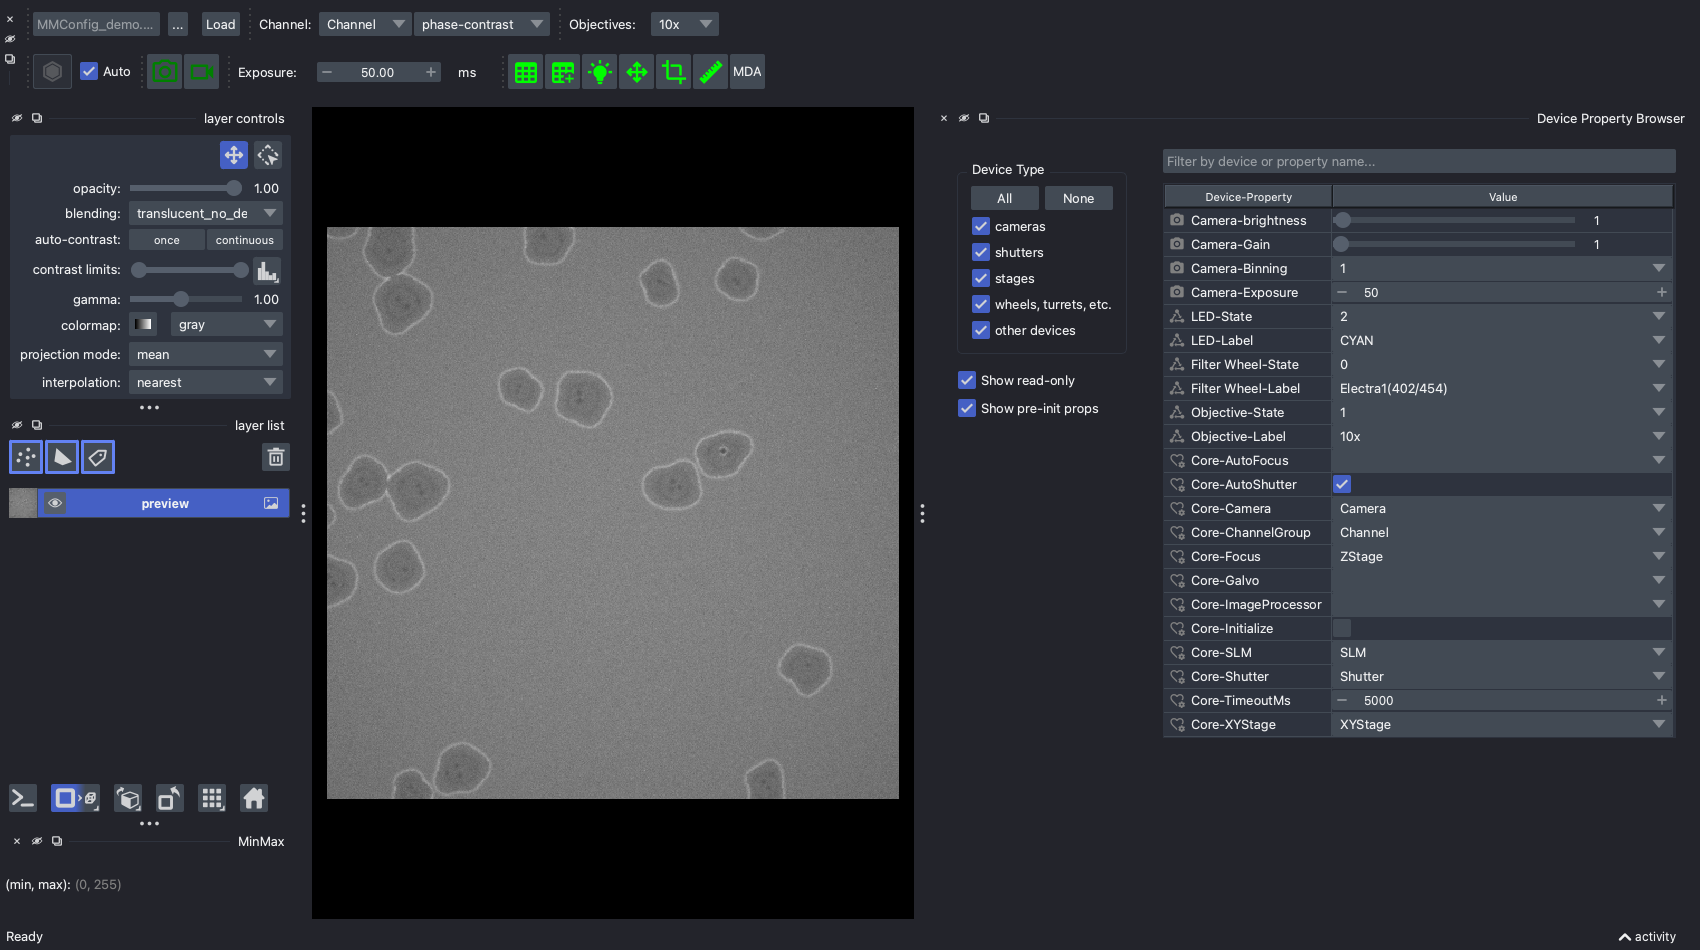
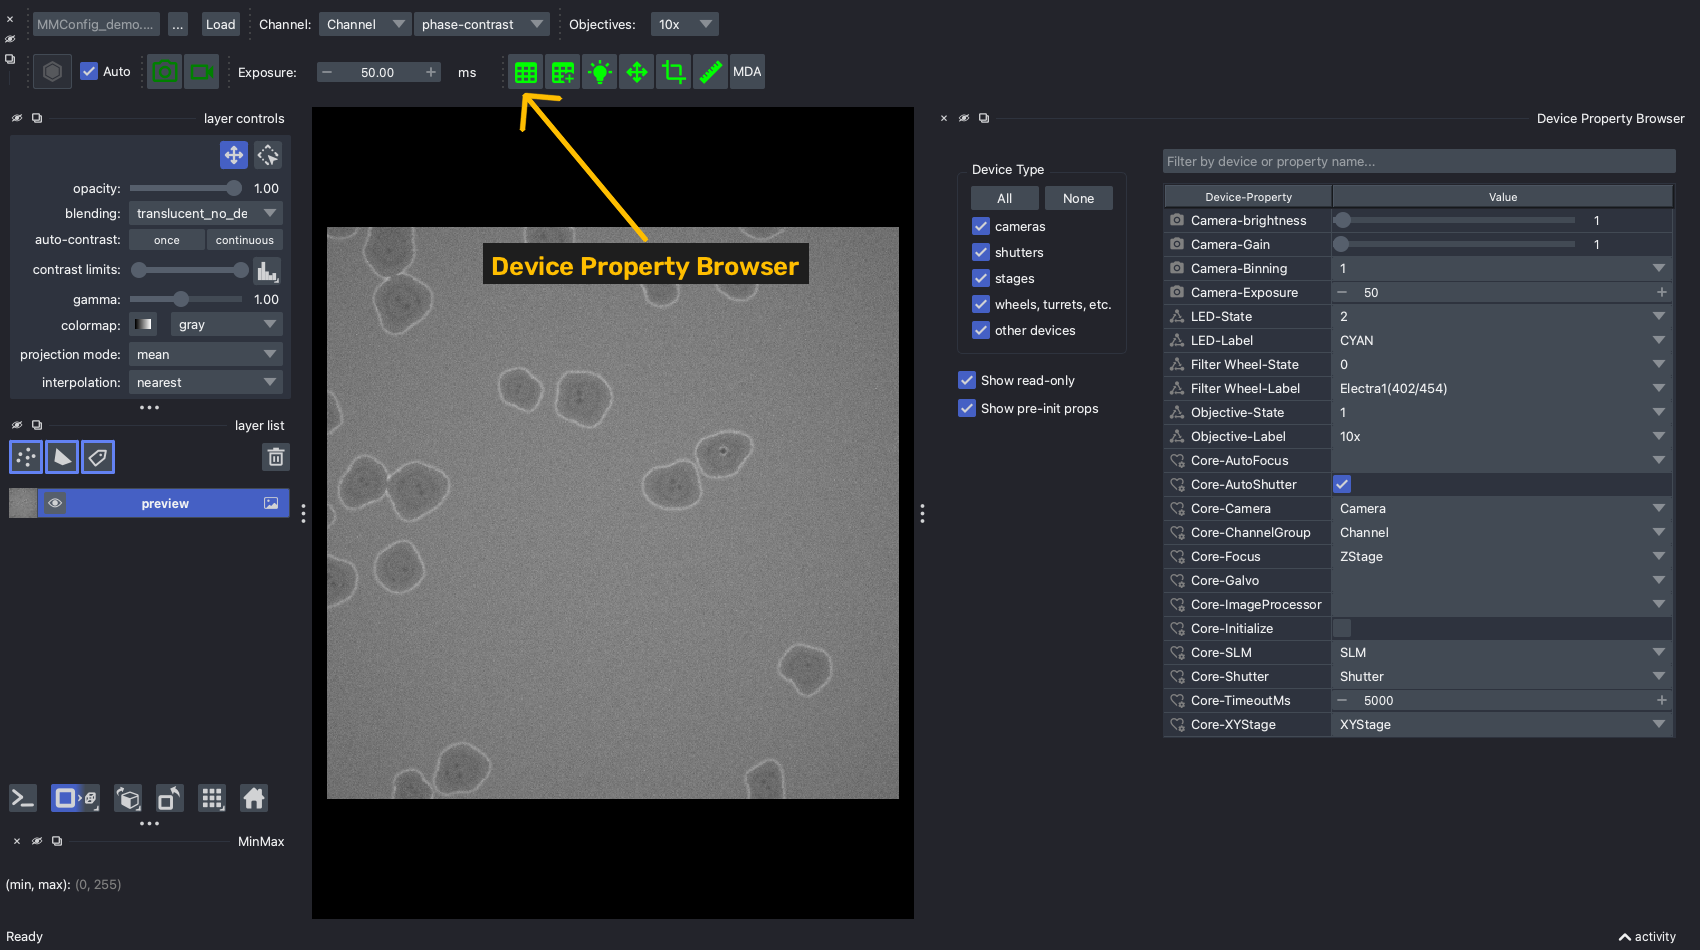
Property browser screenshot: arrow to the toolbar button
The screenshot script finds the toolbar button that opens the Device
Property Browser and draws a labelled arrow to it.

Changed region(s): [[0.2806, 0.1832, 0.4988, 0.3053], [0.2806, 0.0916, 0.3429, 0.1526]]

diff --git a/scripts/make_screenshots.py b/scripts/make_screenshots.py
@@ -57,6 +57,23 @@ def shot_gui():
     napari.run()
 
 
+def annotate_button(img, tip, label, k=1.0):
+    """Draw an arrow pointing up at ``tip`` (x, y) with a label below it."""
+    color = (0, 190, 255)                       # BGR: amber
+    x, y = tip
+    tail = (x + int(120 * k), y + int(150 * k))
+    cv2.arrowedLine(img, tail, (x, y + int(6 * k)), color, max(2, int(4 * k)),
+                    cv2.LINE_AA, tipLength=0.18)
+    scale, th = 0.9 * k, max(1, int(2 * k))
+    (tw, tht), _ = cv2.getTextSize(label, cv2.FONT_HERSHEY_SIMPLEX, scale, th)
+    org = (tail[0] - tw // 2, tail[1] + tht + int(12 * k))
+    pad = int(8 * k)
+    cv2.rectangle(img, (org[0] - pad, org[1] - tht - pad),
+                  (org[0] + tw + pad, org[1] + pad), (30, 30, 30), -1)
+    cv2.putText(img, label, org, cv2.FONT_HERSHEY_SIMPLEX, scale, color, th,
+                cv2.LINE_AA)
+
+
 def shot_property_browser():
     """napari with the Device Property Browser docked on the right: every
     device property (camera Binning, LED and filter-wheel labels that the
@@ -73,10 +90,24 @@ def shot_property_browser():
         viewer.window._qt_window.resize(1700, 950)
         core.setConfig("Channel", "phase-contrast")
         core.snapImage()
-        QTimer.singleShot(1200, lambda: (
-            viewer.window.screenshot(f"{OUT}/property_browser.png",
-                                     canvas_only=False),
-            viewer.close()))
+        QTimer.singleShot(1200, capture)
+
+    def capture():
+        from qtpy.QtCore import QPoint
+        from qtpy.QtWidgets import QPushButton
+        win = viewer.window._qt_window
+        path = f"{OUT}/property_browser.png"
+        viewer.window.screenshot(path, canvas_only=False)
+        # the toolbar button that opens the browser, in screenshot pixels
+        btn = next(b for b in win.findChildren(QPushButton)
+                   if b.toolTip() == "Device Property Browser")
+        tl = btn.mapTo(win, QPoint(0, 0))
+        img = cv2.imread(path)
+        k = img.shape[1] / win.width()
+        bx, by = (tl.x() + btn.width() / 2) * k, (tl.y() + btn.height()) * k
+        annotate_button(img, (int(bx), int(by)), "Device Property Browser", k)
+        cv2.imwrite(path, img)
+        viewer.close()
 
     QTimer.singleShot(3000, act)
     napari.run()
